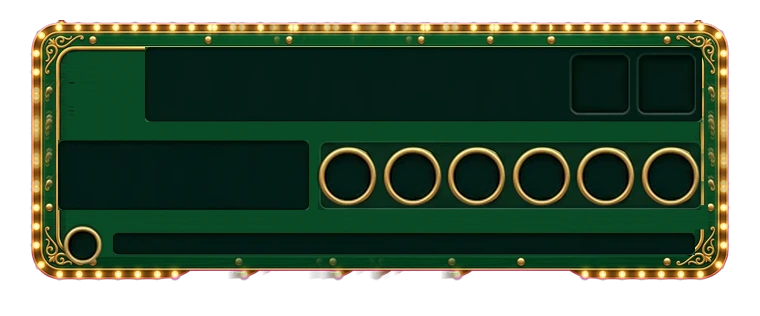
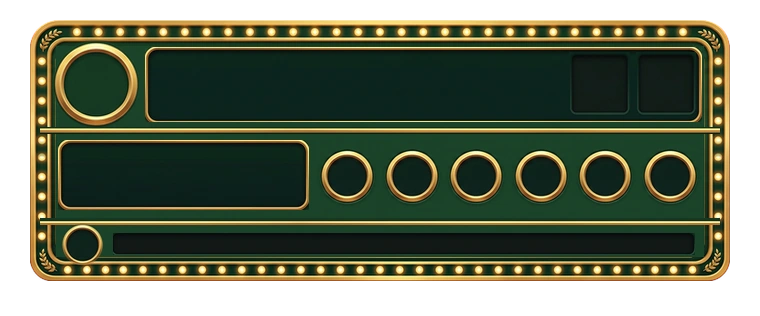
2.a Evening: new green-lacquer marquee board with bulb ring (Figma 363:191) on the locked layout
Claude-Session: https://claude.ai/code/session_01EnXvJ8XPeyqCUAaLS3ewZZ

diff --git a/art/ui/hud_lock/build_locked_boards.py b/art/ui/hud_lock/build_locked_boards.py
@@ -49,6 +49,9 @@ def frac_hud():
 
 # ---- per-board source measurements (original px, 760 wide). slots = the board's own HUD fractions ----
 B = {
+ 'evening2': dict(k=.921, Ri=(28, 28, 732, 282), mat=(130, 137, 300, 560), amp=.9, badgeRing=(93, 77, 38), deco=[('rails', [(123, 130, 300, 560), (212, 219, 300, 560)], (40, 720))],
+   chase=[0.2105, 0.0553, 0.9289, 0.1474], wk=[0.7632, 0.0684, 0.8316, 0.1368], score=[0.0605, 0.1842, 0.3566, 0.2697],
+   sock=[0.4145, 0.2263, 0.0355], badge=[0.0724, 0.0526, 0.1724, 0.1513], eIcon=[0.1, 0.3276, 0.0224], eBar=[0.1553, 0.3079, 0.9303, 0.3487]),
  'railway2': dict(k=.921, topSprites=[((14, 14, 56, 58), (49, 39), 38), ((702, 14, 746, 58), (711, 39), 38)], Ri=(20, 58, 740, 298), mat=(104, 110, 300, 560), amp=.9, badgeRing=(104, 77, 50), deco=[('rails', [(110, 124, 300, 540), (215, 228, 300, 540)], (44, 716))],
    chase=[0.2566, 0.0421, 0.9211, 0.1342], wk=[0.7566, 0.0553, 0.8237, 0.125], score=[0.0487, 0.1816, 0.3237, 0.2697],
    sock=[0.3908, 0.2237, 0.0342], badge=[0.0658, 0.0316, 0.2079, 0.1711], eIcon=[0.1487, 0.3447, 0.0224], eBar=[0.3368, 0.3237, 0.9487, 0.3711]),
